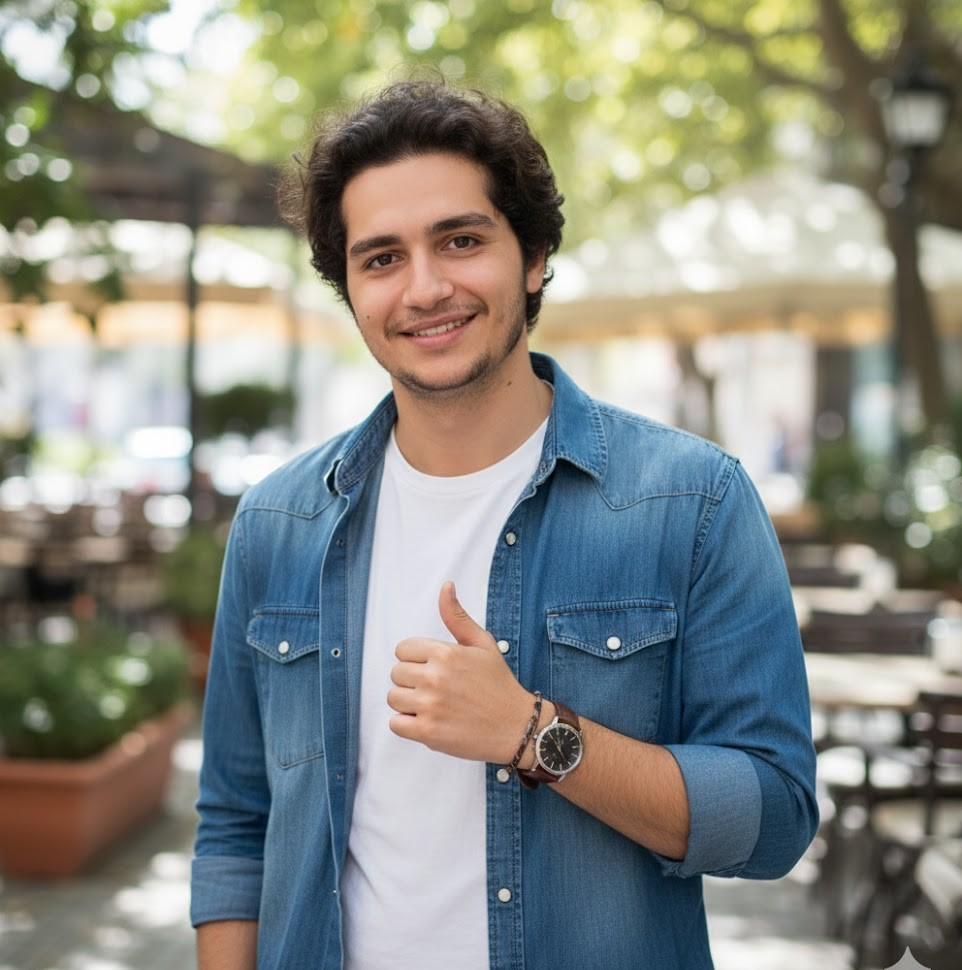
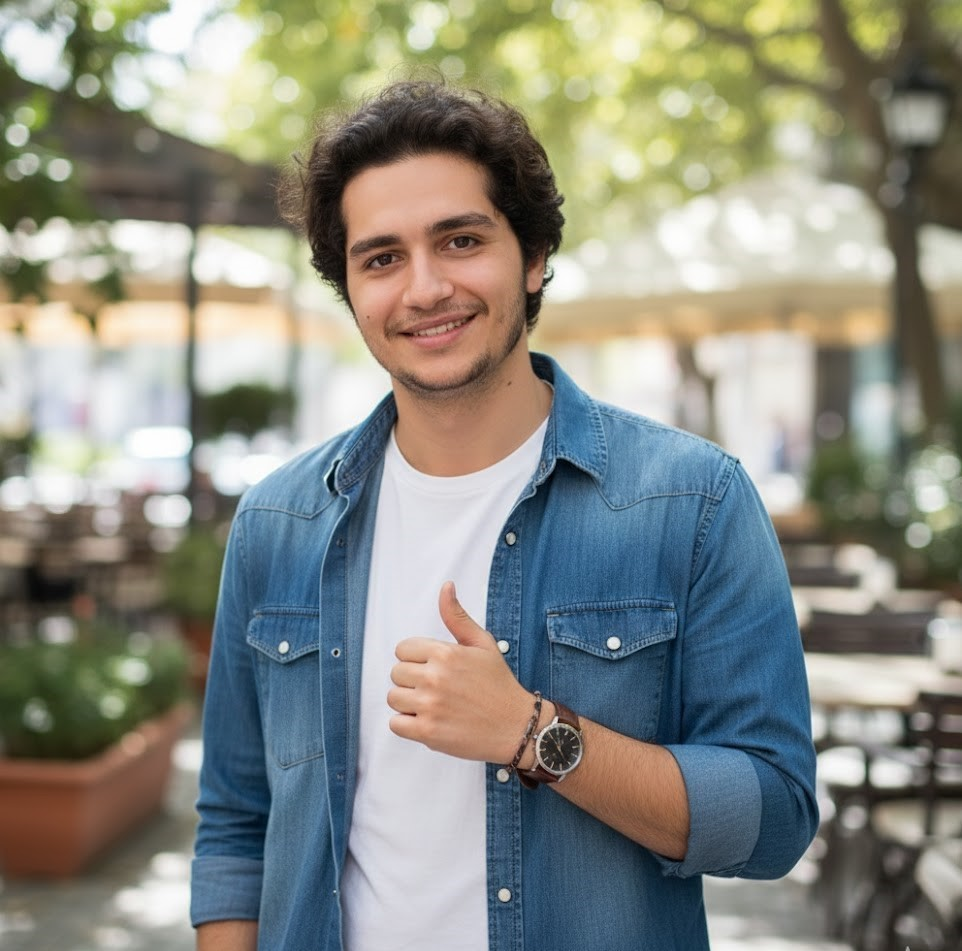
adding Voice Agent

diff --git a/src/components/RetellAgent.jsx b/src/components/RetellAgent.jsx
@@ -1,0 +1,245 @@
+import React, { useState, useEffect } from 'react';
+import { RetellWebClient } from 'retell-client-js-sdk';
+
+// Initialize the Retell Client
+const retellWebClient = new RetellWebClient();
+
+const RetellAgent = () => {
+  const [isCalling, setIsCalling] = useState(false);
+
+  // --- Configuration ---
+  const AGENT_ID = "agent_9b47b3e56823c52808c6519818";
+  const API_KEY = "key_b7f5ec9e816de552dd7a0892e3bd"; 
+
+  const toggleCall = async () => {
+    if (isCalling) {
+      retellWebClient.stopCall();
+      setIsCalling(false);
+      return;
+    }
+
+    try {
+      const response = await fetch("https://api.retellai.com/v2/create-web-call", {
+        method: "POST",
+        headers: {
+          "Authorization": `Bearer ${API_KEY}`,
+          "Content-Type": "application/json",
+        },
+        body: JSON.stringify({ agent_id: AGENT_ID }),
+      });
+
+      if (!response.ok) throw new Error("Failed to get access token");
+      
+      const data = await response.json();
+      await retellWebClient.startCall({ accessToken: data.access_token });
+      setIsCalling(true);
+
+      retellWebClient.on("call_ended", () => {
+        setIsCalling(false);
+      });
+    } catch (error) {
+      console.error("Error:", error);
+      alert("حدث خطأ في الاتصال بالاجينت");
+    }
+  };
+
+  // Helper to split text into animated spans
+  const renderLetters = (text) => {
+    return text.split("").map((char, index) => (
+      <span 
+        key={index} 
+        className="btn-letter" 
+        style={{ animationDelay: `${index * 0.05}s` }}
+      >
+        {char === " " ? "\u00A0" : char}
+      </span>
+    ));
+  };
+
+  return (
+    <>
+      <style>{cssStyles}</style>
+      <div className="agent-container">
+        <div className="btn-wrapper">
+          <button 
+            className={`retell-btn ${isCalling ? 'active-call' : ''}`} 
+            onClick={toggleCall}
+          >
+            <svg className="btn-svg" xmlns="http://www.w3.org/2000/svg" viewBox="0 0 24 24">
+              <path
+                strokeLinecap="round"
+                strokeLinejoin="round"
+                d="M9.813 15.904 9 18.75l-.813-2.846a4.5 4.5 0 0 0-3.09-3.09L2.25 12l2.846-.813a4.5 4.5 0 0 0 3.09-3.09L9 5.25l.813 2.846a4.5 4.5 0 0 0 3.09 3.09L15.75 12l-2.846.813a4.5 4.5 0 0 0-3.09 3.09ZM18.259 8.715 18 9.75l-.259-1.035a3.375 3.375 0 0 0-2.455-2.456L14.25 6l1.036-.259a3.375 3.375 0 0 0 2.455-2.456L18 2.25l.259 1.035a3.375 3.375 0 0 0 2.456 2.456L21.75 6l-1.035.259a3.375 3.375 0 0 0-2.456 2.456ZM16.894 20.567 16.5 21.75l-.394-1.183a2.25 2.25 0 0 0-1.423-1.423L13.5 18.75l1.183-.394a2.25 2.25 0 0 0 1.423-1.423l.394-1.183.394 1.183a2.25 2.25 0 0 0 1.423 1.423l1.183.394-1.183.394a2.25 2.25 0 0 0-1.423 1.423Z"
+              ></path>
+            </svg>
+
+            <div className="txt-wrapper">
+              <div className="txt-1">
+                {renderLetters("Talk to VulnSneak")}
+              </div>
+              <div className="txt-2">
+                {renderLetters("End Call Now")}
+              </div>
+            </div>
+          </button>
+        </div>
+        {isCalling && <p className="status-label">جاري التحدث الآن...</p>}
+      </div>
+    </>
+  );
+};
+
+const cssStyles = `
+.agent-container {
+  position: fixed;
+  bottom: 30px;
+  right: 30px;
+  z-index: 9999;
+  display: flex;
+  flex-direction: column;
+  align-items: center;
+}
+
+.status-label {
+  margin-top: 10px;
+  font-family: sans-serif;
+  font-size: 12px;
+  color: #fff;
+  opacity: 0.8;
+  animation: flicker 2s infinite;
+}
+
+.btn-wrapper {
+  position: relative;
+  display: inline-block;
+}
+
+.retell-btn {
+  --border-radius: 24px;
+  --padding: 4px;
+  --transition: 0.4s;
+  --button-color: #101010;
+  --highlight-color-hue: 210deg; /* Blue tint */
+
+  user-select: none;
+  display: flex;
+  align-items: center;
+  justify-content: center;
+  padding: 0.6em 1.2em 0.6em 1em;
+  font-family: "Poppins", "Inter", sans-serif;
+  font-size: 16px;
+  font-weight: 400;
+  background-color: var(--button-color);
+  border: solid 1px #fff2;
+  border-radius: var(--border-radius);
+  cursor: pointer;
+  position: relative;
+  transition: box-shadow var(--transition), border var(--transition), background-color var(--transition);
+  box-shadow:
+    inset 0px 1px 1px rgba(255, 255, 255, 0.2),
+    0px 4px 10px rgba(0, 0, 0, 0.3);
+}
+
+/* Red theme when calling */
+.retell-btn.active-call {
+  --highlight-color-hue: 0deg; /* Red tint */
+  border: solid 1px rgba(255, 50, 50, 0.5);
+}
+
+.retell-btn::before {
+  content: "";
+  position: absolute;
+  top: calc(0px - var(--padding));
+  left: calc(0px - var(--padding));
+  width: calc(100% + var(--padding) * 2);
+  height: calc(100% + var(--padding) * 2);
+  border-radius: calc(var(--border-radius) + var(--padding));
+  pointer-events: none;
+  background-image: linear-gradient(0deg, #0004, #000a);
+  z-index: -1;
+  box-shadow: 1px 1px 1px #fff2, -1px -1px 1px #0002;
+}
+
+.retell-btn::after {
+  content: "";
+  position: absolute;
+  top: 0; left: 0; width: 100%; height: 100%;
+  border-radius: inherit;
+  pointer-events: none;
+  background-image: linear-gradient(0deg, #fff, hsl(var(--highlight-color-hue), 100%, 70%), transparent 10%);
+  opacity: 0;
+  transition: opacity var(--transition);
+}
+
+.retell-btn:hover::after, .retell-btn.active-call::after {
+  opacity: 0.6;
+}
+
+.txt-wrapper {
+  position: relative;
+  display: flex;
+  align-items: center;
+  min-width: 140px;
+  height: 24px;
+}
+
+.txt-1, .txt-2 {
+  position: absolute;
+  white-space: nowrap;
+  transition: 0.4s ease-in-out;
+}
+
+.txt-2 { opacity: 0; transform: translateY(10px); }
+
+/* Toggle visibility between the two texts */
+.retell-btn.active-call .txt-1 { opacity: 0; transform: translateY(-10px); }
+.retell-btn.active-call .txt-2 { opacity: 1; transform: translateY(0); }
+
+.btn-letter {
+  position: relative;
+  display: inline-block;
+  color: #fff5;
+  animation: letter-anim 2s ease-in-out infinite;
+}
+
+@keyframes letter-anim {
+  50% { text-shadow: 0 0 3px #fff8; color: #fff; }
+}
+
+/* SVG Styling */
+.btn-svg {
+  height: 22px;
+  width: 22px;
+  margin-right: 10px;
+  fill: #e8e8e8;
+  transition: 0.4s;
+}
+
+.retell-btn.active-call .btn-svg {
+  fill: #ff4d4d;
+  filter: drop-shadow(0 0 5px #ff4d4d);
+}
+
+.retell-btn:hover .btn-svg {
+  fill: #fff;
+}
+
+/* Call Animation effect on letters */
+.retell-btn.active-call .btn-letter {
+  animation: focused-letter-anim 1s ease-in-out infinite;
+}
+
+@keyframes focused-letter-anim {
+  50% {
+    transform: scale(1.1);
+    filter: brightness(150%);
+    color: hsl(var(--highlight-color-hue), 100%, 80%);
+  }
+}
+
+@keyframes flicker {
+  50% { opacity: 0.4; }
+}
+`;
+
+export default RetellAgent;

diff --git a/src/components/PartnersSection.jsx b/src/components/PartnersSection.jsx
@@ -42,7 +42,7 @@ export default function PartnersSection() {
               <img
                 src={logo}
                 alt="Partner Logo"
-                className={`h-8 md:h-10 lg:h-25 object-contain opacity-80 group-hover:opacity-100 transition-all duration-300 grayscale group-hover:grayscale-0
+                className={`h-8 md:h-10 lg:h-18 object-contain opacity-80 group-hover:opacity-100 transition-all duration-300 grayscale group-hover:grayscale-0
                   ${activeLogo === i ? 'opacity-100 grayscale-0 scale-110' : ''}
                 `}
               />

diff --git a/src/App.jsx b/src/App.jsx
@@ -12,6 +12,7 @@ import ContactUs from "./pages/ContactUs";
 import Page404 from "./pages/Page404";
 // import Page404joke from "./pages/Page404joke";
 import './App.css';
+import RetellAgent from './components/RetellAgent';
 
 function App() {
   const location = useLocation();
@@ -20,6 +21,7 @@ function App() {
   return (
     <>
     {!hideNavbarRoutes.includes(location.pathname) && <Navbar />} 
+    <RetellAgent />
       <Routes>
        <Route path="/" element={<Home />} />
         <Route path="/auth" element={<AuthPage />} />
